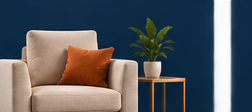
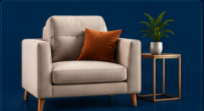
Show complete category artwork on homepage cards

diff --git a/index.html b/index.html
@@ -299,7 +299,7 @@ body.home-mode .view-home.is-active{
   background:var(--navy-mid);
   border:1px solid rgba(255,255,255,.12);
   border-radius:14px;
-  padding:10px 12px 12px;
+  padding:6px 8px 8px;
   color:#fff;
   position:relative;
   min-width:0;
@@ -311,20 +311,20 @@ body.home-mode .view-home.is-active{
   border-color:rgba(244,81,30,.45);
   box-shadow:0 10px 24px rgba(0,0,0,.22);
 }
-.category-card:hover .card-icon img{transform:scale(1.06)}
+.category-card:hover .card-icon img{transform:translateY(-2px)}
 .category-card:hover .card-arrow{background:var(--orange-dark)}
 .card-icon{
-  height:clamp(56px,8vh,78px);
+  height:clamp(80px,10vh,100px);
   overflow:hidden;
   border-radius:8px;
   background:#08285a;
-  margin-bottom:8px;
+  margin-bottom:5px;
 }
 .card-icon img{
-  width:112%;
-  height:112%;
-  margin:-6%;
-  object-fit:cover;
+  width:100%;
+  height:100%;
+  margin:0;
+  object-fit:contain;
   object-position:center;
   transition:transform .25s;
 }
@@ -332,20 +332,13 @@ body.home-mode .view-home.is-active{
   font-size:13px;
   font-weight:800;
   line-height:1.2;
-  padding-right:34px;
-}
-.category-card p{
-  margin-top:3px;
-  font-size:10px;
-  line-height:1.35;
-  color:rgba(255,255,255,.62);
-  padding-right:34px;
+  padding:1px 30px 0 2px;
 }
 .card-arrow{
   position:absolute;
-  right:10px;
-  bottom:10px;
-  width:26px;height:26px;
+  right:7px;
+  bottom:7px;
+  width:24px;height:24px;
   border-radius:50%;
   background:var(--orange);
   color:#fff;
@@ -687,7 +680,7 @@ textarea{min-height:110px;resize:vertical}
 }
 @media (max-height:760px){
   :root{--header-h:58px;--footer-h:48px}
-  .card-icon{height:52px}
+  .card-icon{height:80px}
   .hero h1{font-size:clamp(28px,5vh,42px)}
   .shop{padding:8px 0 10px}
 }
@@ -867,10 +860,9 @@ function productsOf(cat, sub){
 }
 
 function cardHTML(cat){
-  return `<a class="category-card" href="#/category/${cat.id}">
+  return `<a class="category-card" href="#/category/${cat.id}" aria-label="Open ${cat.title} category">
     <div class="card-icon"><img src="${cat.icon}" alt="${cat.alt}"></div>
     <h3>${cat.title}</h3>
-    <p>${cat.description}</p>
     <span class="card-arrow" aria-hidden="true">→</span>
   </a>`;
 }
